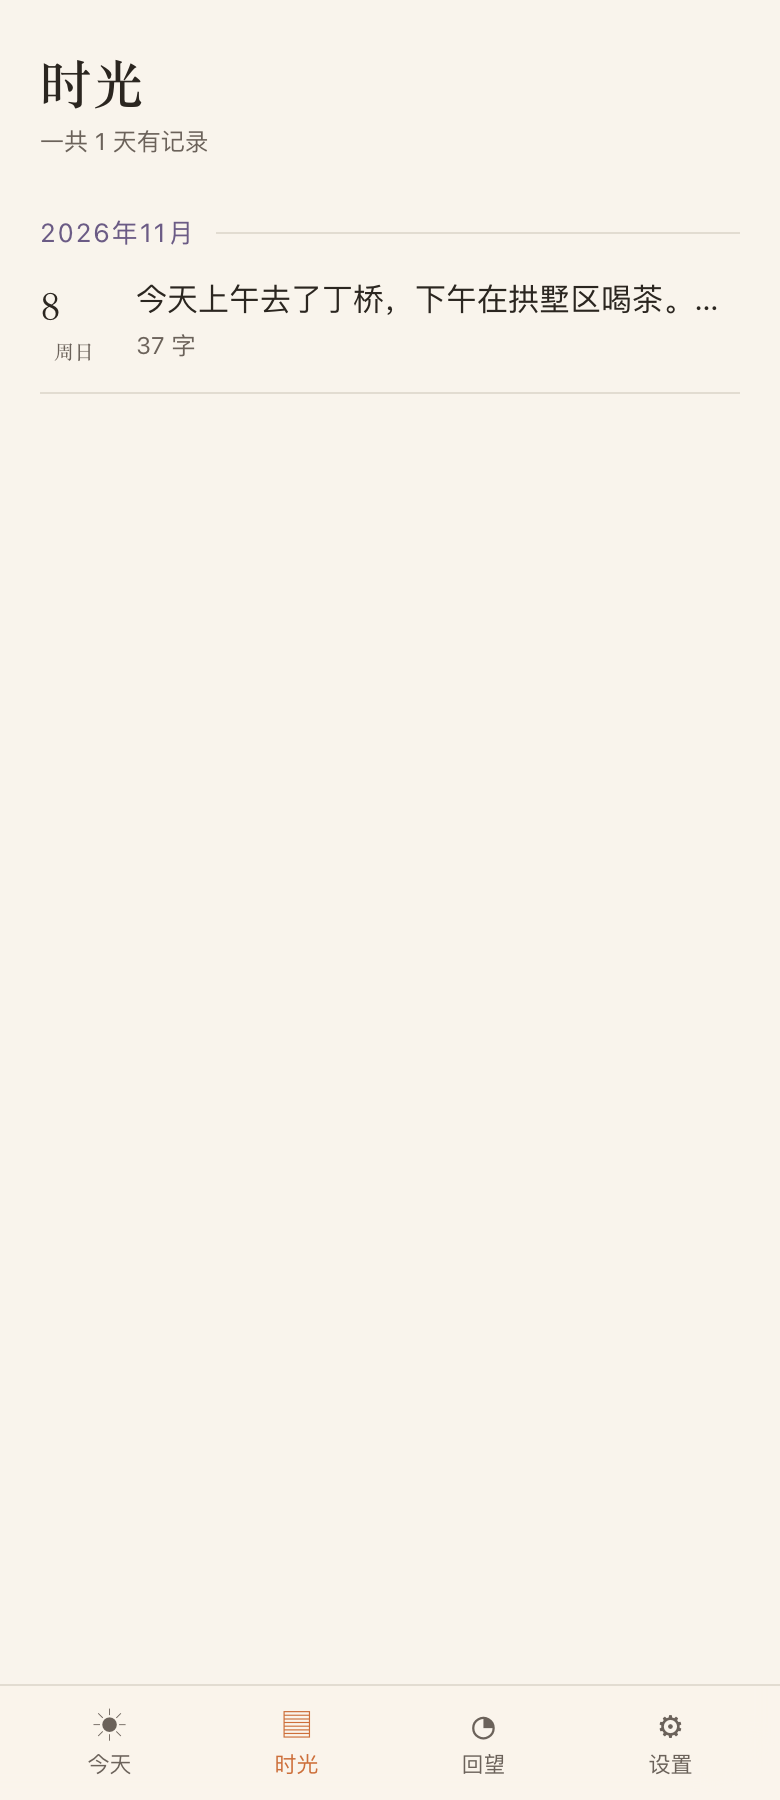
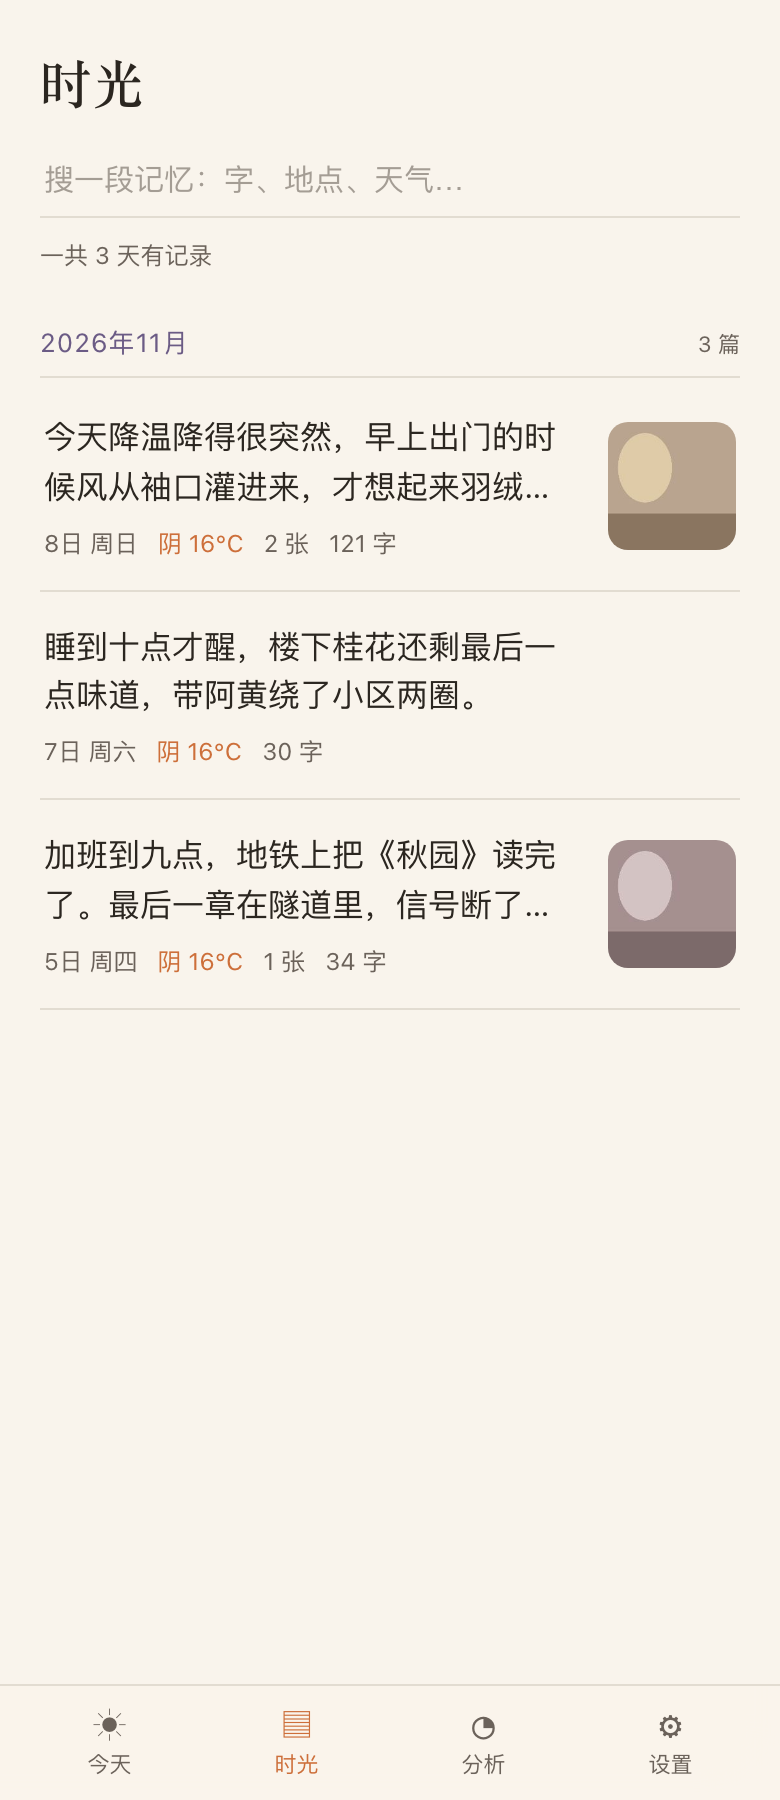
读模式：短首句当标题、元信息收敛成 +N（v0.3.2）

diff --git a/web/js/read.js b/web/js/read.js
@@ -32,11 +32,9 @@ export async function renderRead(root, dateISO) {
   const images = items.filter((i) => i.type === 'image');
   const hero = entry.coverImageId ? images.find((i) => i.id === entry.coverImageId) : null;
 
-  const meta = [
-    entry.weather,
-    ...entry.places.map(placeName),
-    ...entry.regions.map(placeName)
-  ].filter(Boolean);
+  const places = entry.places.map(placeName).filter(Boolean);
+  const regions = entry.regions.map(placeName).filter(Boolean);
+  let metaExpanded = false;
 
   // ---------- 浮动返回 ----------
   root.append(el('div', { class: 'read-bar' },
@@ -62,13 +60,47 @@ export async function renderRead(root, dateISO) {
   }
 
   // ---------- 元信息 ----------
-  if (meta.length) {
-    root.append(el('div', { class: 'read-meta' },
-      ...meta.map((text, index) => el('span', { class: index === 0 && entry.weather ? 'read-meta-weather' : '' }, text))
-    ));
+  const metaHost = el('div', { class: 'read-meta' });
+  root.append(metaHost);
+
+  function renderMeta() {
+    metaHost.innerHTML = '';
+    const head = [];
+    if (entry.weather) head.push(el('span', { class: 'read-meta-weather' }, entry.weather));
+    head.push(...places.slice(0, 1).map((text) => el('span', {}, text)));
+    head.push(...regions.slice(0, 1).map((text) => el('span', {}, text)));
+    metaHost.append(...head);
+
+    const hidden = places.slice(1).concat(regions.slice(1));
+    if (hidden.length && !metaExpanded) {
+      metaHost.append(el('button', {
+        class: 'read-meta-more',
+        onclick: () => { metaExpanded = true; renderMeta(); }
+      }, `+${hidden.length}`));
+    } else if (metaExpanded) {
+      metaHost.append(...hidden.map((text) => el('span', {}, text)));
+      metaHost.append(el('button', {
+        class: 'read-meta-more',
+        onclick: () => { metaExpanded = false; renderMeta(); }
+      }, '收起'));
+    }
   }
+  renderMeta();
 
   // ---------- 正文 ----------
+  const texts = items.filter((i) => i.type === 'text');
+  const firstText = texts[0] ? texts[0].text.trim() : '';
+  const titleCandidate = texts.length > 1
+    && firstText.length <= 24
+    && !/[。！？!?…]$/.test(firstText)
+    ? firstText
+    : null;
+  const ledeCandidate = !titleCandidate
+    && texts.length > 1
+    && firstText.length >= 40
+    ? firstText
+    : null;
+
   const body = el('div', { class: 'read-body' });
   let firstParagraph = true;
   let heroSkipped = !hero;
@@ -79,9 +111,14 @@ export async function renderRead(root, dateISO) {
       body.append(figure(item));
       continue;
     }
-    const p = el('p', { class: firstParagraph ? 'read-lede' : '' }, item.text);
+    if (firstParagraph && titleCandidate) {
+      body.append(el('h2', { class: 'read-title' }, item.text.trim()));
+    } else if (firstParagraph && ledeCandidate) {
+      body.append(el('p', { class: 'read-lede' }, item.text));
+    } else {
+      body.append(el('p', {}, item.text));
+    }
     firstParagraph = false;
-    body.append(p);
   }
 
   // 只有照片没有文字

diff --git a/web/css/app.css b/web/css/app.css
@@ -609,3 +609,24 @@ body.reading #view { padding-bottom: 40px; }
   color: var(--ink-soft); font-size: 11px; font-family: inherit;
 }
 .cover-btn.on { color: var(--dawn); }
+
+/* ---------- 读模式：标题与元信息 ---------- */
+
+.read-title {
+  font-family: "Songti SC", "STSong", Georgia, serif;
+  font-size: 27px;
+  font-weight: 600;
+  line-height: 1.45;
+  letter-spacing: .5px;
+  margin: 6px 0 20px;
+  color: var(--ink);
+}
+
+.read-meta-more {
+  border: none;
+  background: none;
+  padding: 0;
+  font-size: 12px;
+  font-family: inherit;
+  color: var(--dawn);
+}

diff --git a/web/js/util.js b/web/js/util.js
@@ -1,6 +1,6 @@
 // 一些小工具：建 DOM、日期、提示条。
 
-export const APP_VERSION = '0.3.1';
+export const APP_VERSION = '0.3.2';
 
 export function el(tag, props = {}, ...children) {
   const node = document.createElement(tag);
